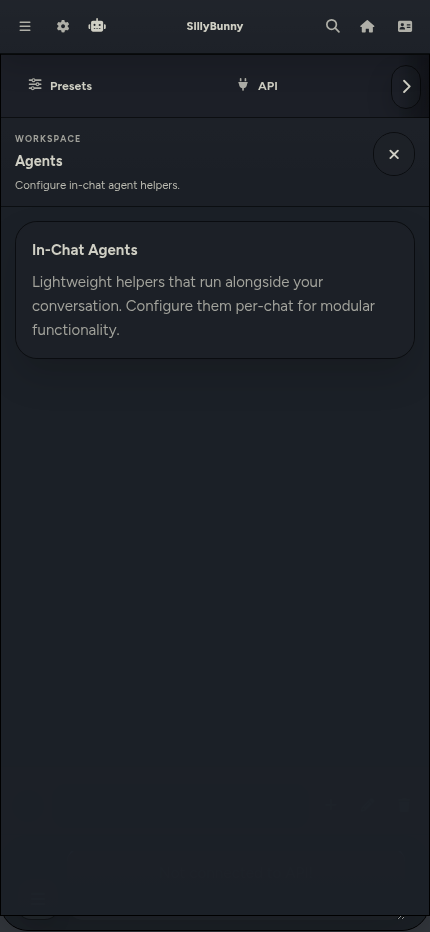
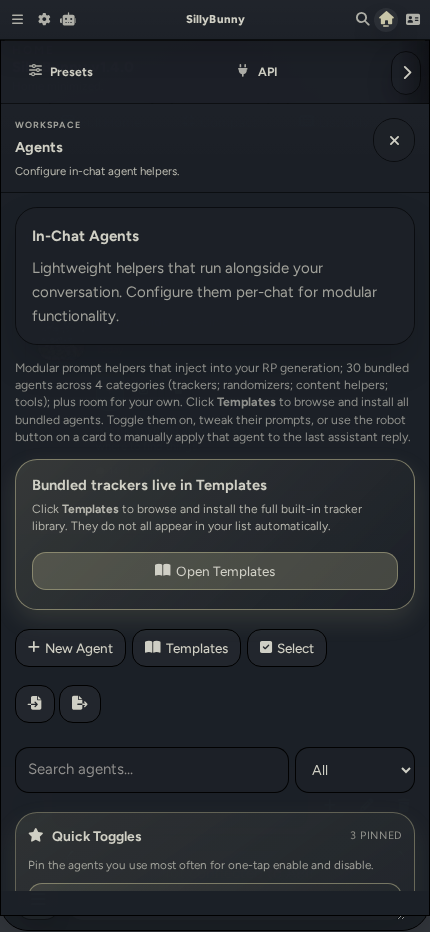
docs(readme): fix remaining v1.4.0 screenshots

diff --git a/.github/readme.md b/.github/readme.md
@@ -213,6 +213,7 @@ SillyBunny includes some extras by default to help you get started right away:
 - Refreshed the README gallery for v1.4.0 with updated desktop/mobile shell captures and new Bunny Guide in-chat screenshots
 - Corrected the v1.4.0 README shell captures so the mobile gallery and Characters views no longer show broken overlay states
 - Replaced the empty desktop Agents capture with a populated in-chat agents workspace and switched the desktop README gallery to full-width rows so the 1920x1080 screenshots render at readable size
+- Regenerated the desktop Characters and mobile Navigate/Agents captures so the gallery shows the Home landing surface behind those menus and the mobile Agents view now includes populated in-chat agent cards
 
 **Themes and Appearance**
 

diff --git a/README.md b/README.md
@@ -217,6 +217,7 @@ SillyBunny includes some extras by default to help you get started right away:
 - Refreshed the README gallery for v1.4.0 with updated desktop/mobile shell captures and new Bunny Guide in-chat screenshots
 - Corrected the v1.4.0 README shell captures so the mobile gallery and Characters views no longer show broken overlay states
 - Replaced the empty desktop Agents capture with a populated in-chat agents workspace and switched the desktop README gallery to full-width rows so the 1920x1080 screenshots render at readable size
+- Regenerated the desktop Characters and mobile Navigate/Agents captures so the gallery shows the Home landing surface behind those menus and the mobile Agents view now includes populated in-chat agent cards
 
 **Themes and Appearance**
 
